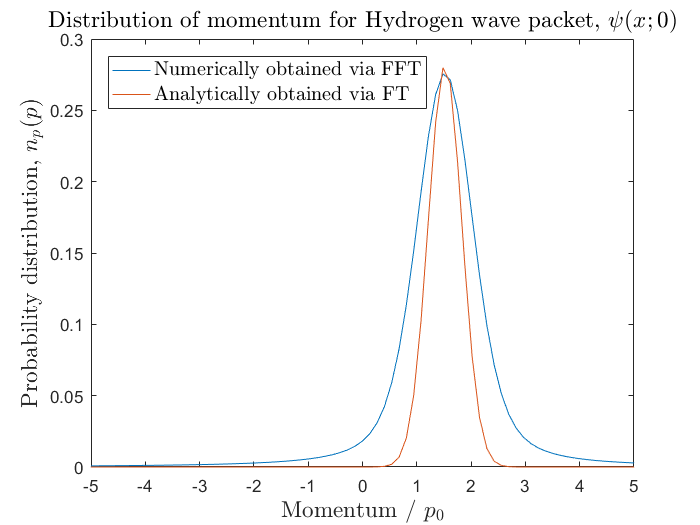
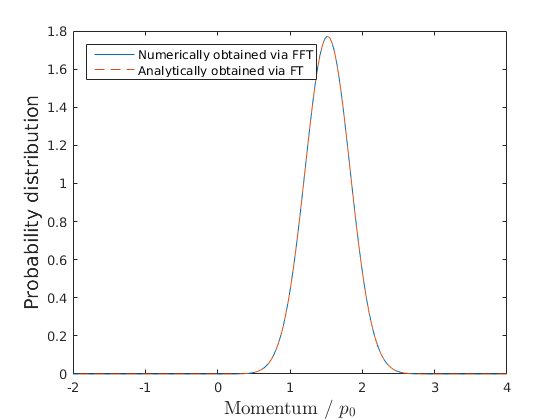
Changed figures in task1 and updated figure caption.

diff --git a/report/report.tex b/report/report.tex
@@ -36,19 +36,19 @@ where $d$ is the witdth of the packet, $x_0$ and $p_0$ are the corresponding ini
 \begin{figure}[H]
     \centering
     \captionsetup[subfigure]{justification=centering}
-    \begin{subfigure}[b]{0.7\textwidth}
+    \begin{subfigure}[b]{0.8\textwidth}
         \centering
         \includegraphics[width=\textwidth]{graphics/task1/position_prob.png}
 		\caption{}
 		\label{fig:1_a}
     \end{subfigure}
-    \begin{subfigure}[b]{0.7\textwidth}
+    \begin{subfigure}[b]{0.8\textwidth}
         \centering
         \includegraphics[width=\textwidth]{graphics/task1/momentum_prob.png}
         \caption{}
 		\label{fig:1_b}
     \end{subfigure}
-    \caption{\textit{(a):} The positive half of the wave packet in space. Given that it is a Gaussian distribution with zero mean, it is symmetrical around the y-axis. \textit{(b):} The wave packet in momentum space. The blue graph is the result obtained from numerically doing FFT on the initial wave packet. The red dashed graph is the analytical solution.}
+    \caption{\textit{(a):} The positive half of the wave packet in space. Given that it is a Gaussian distribution with zero mean, it is symmetrical around the y-axis. \textit{(b):} The wave packet in momentum space. The blue graph is the result obtained from numerically doing FFT on the initial wave packet. The red dashed graph is the analytical solution. Due to their similarity, the two graphs are difficult to distinguish from each other.}
     \label{fig:*}
 \end{figure}
 
